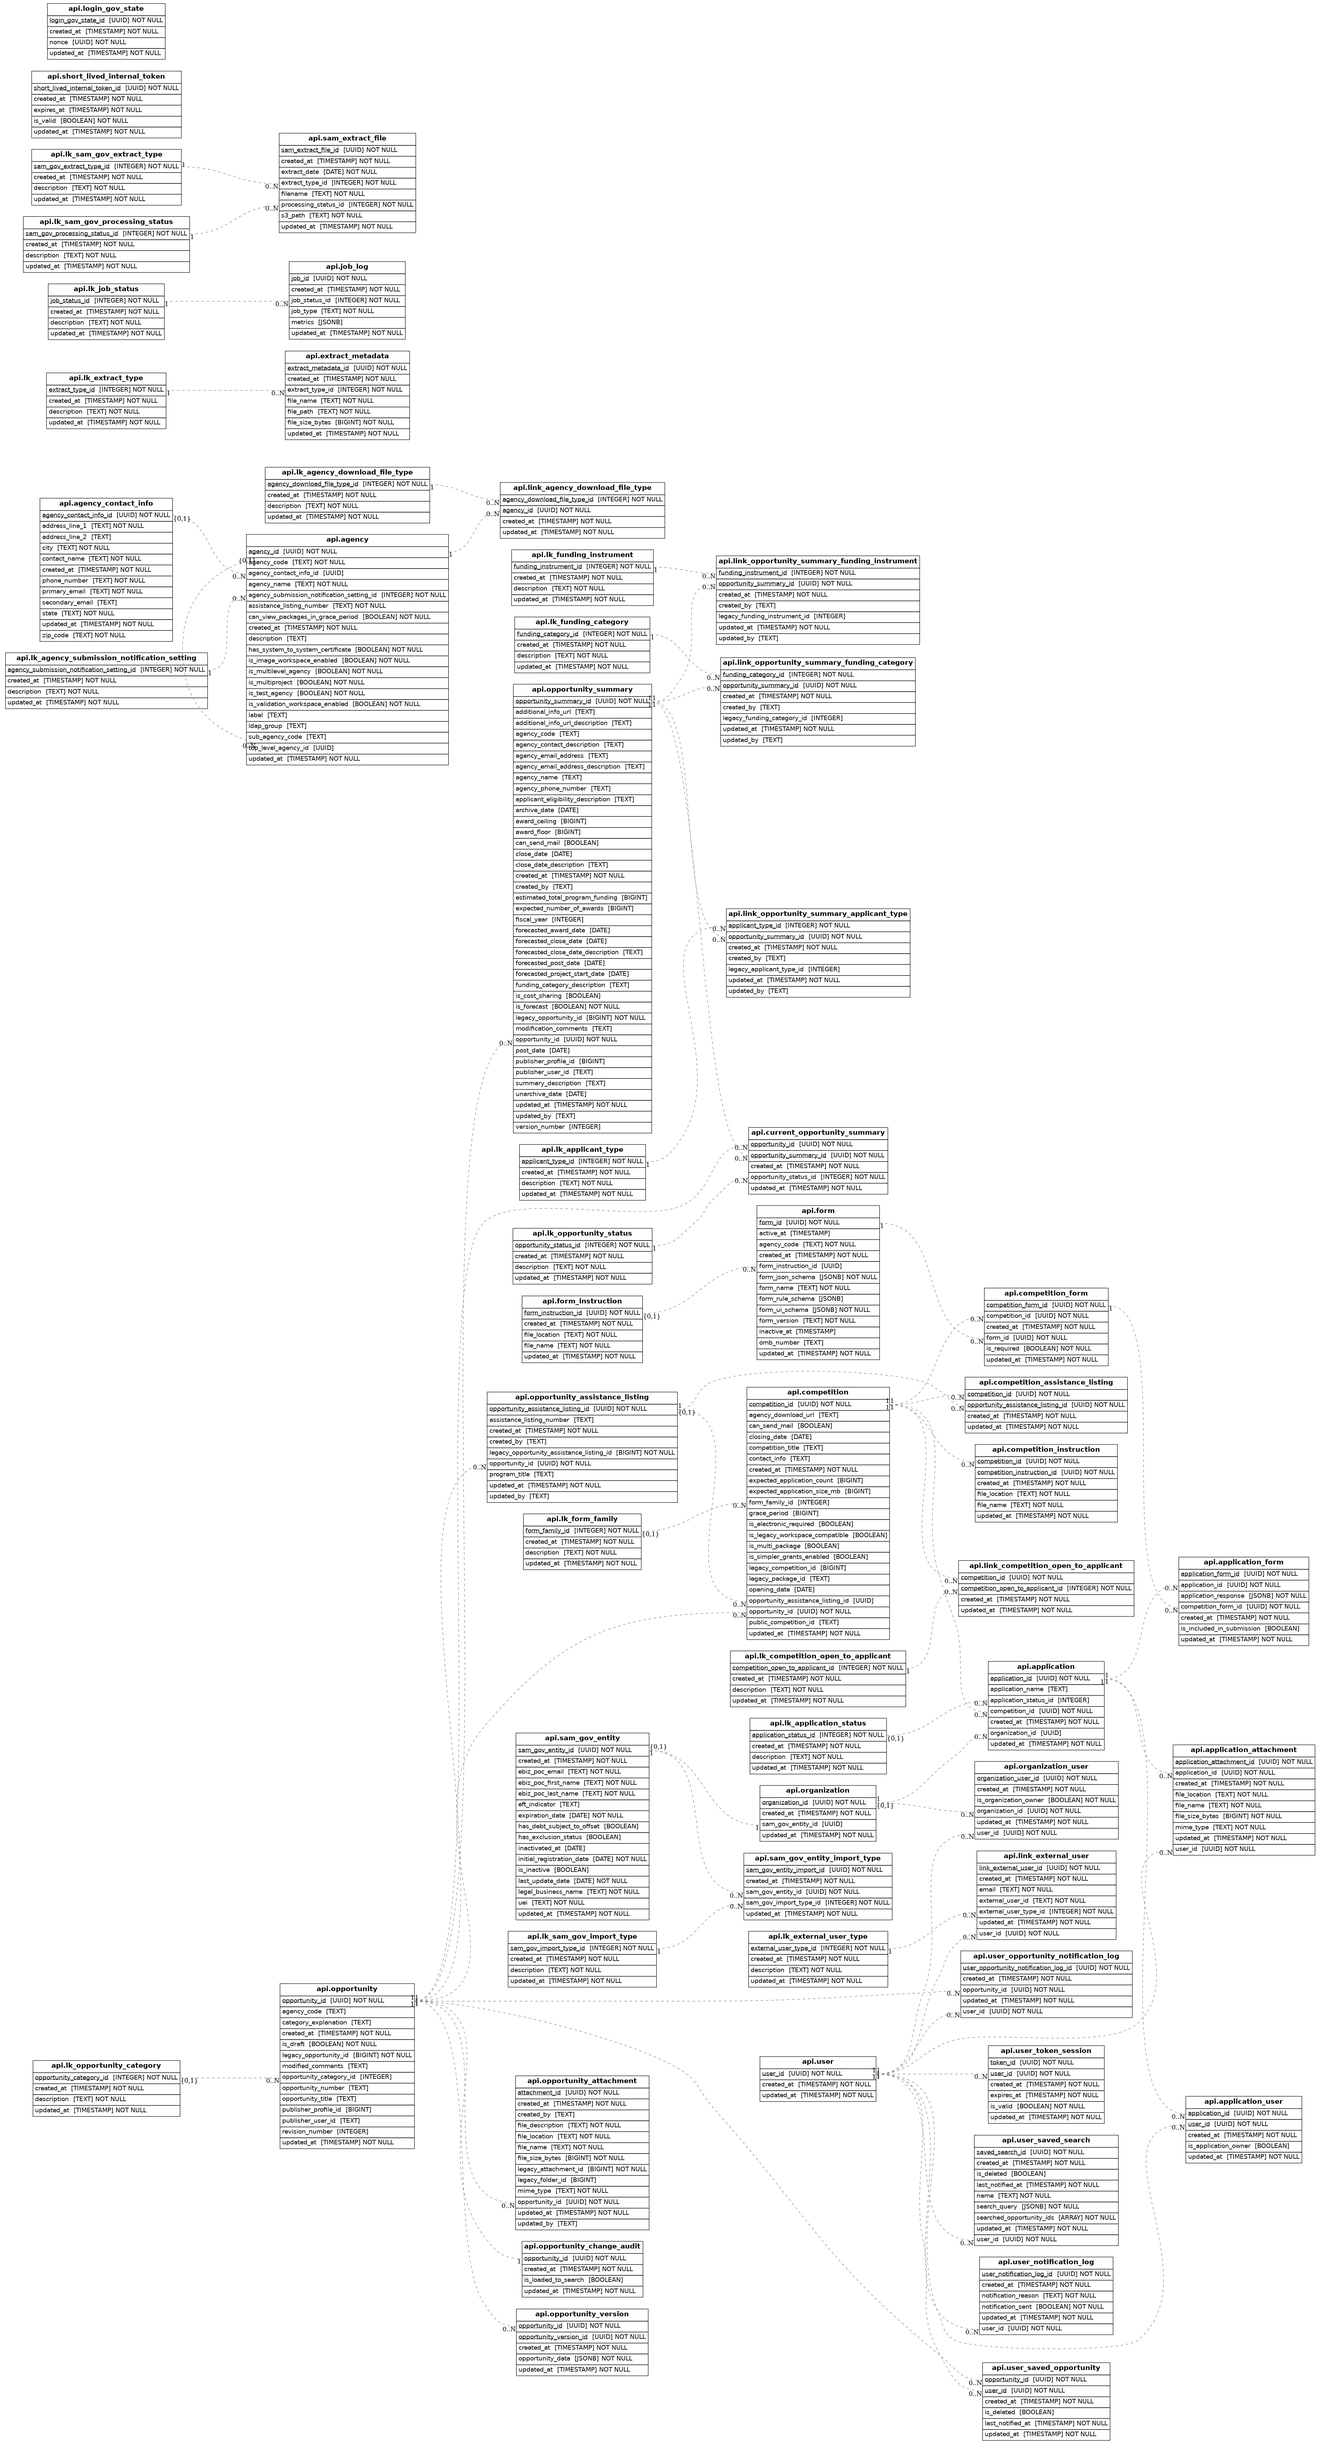
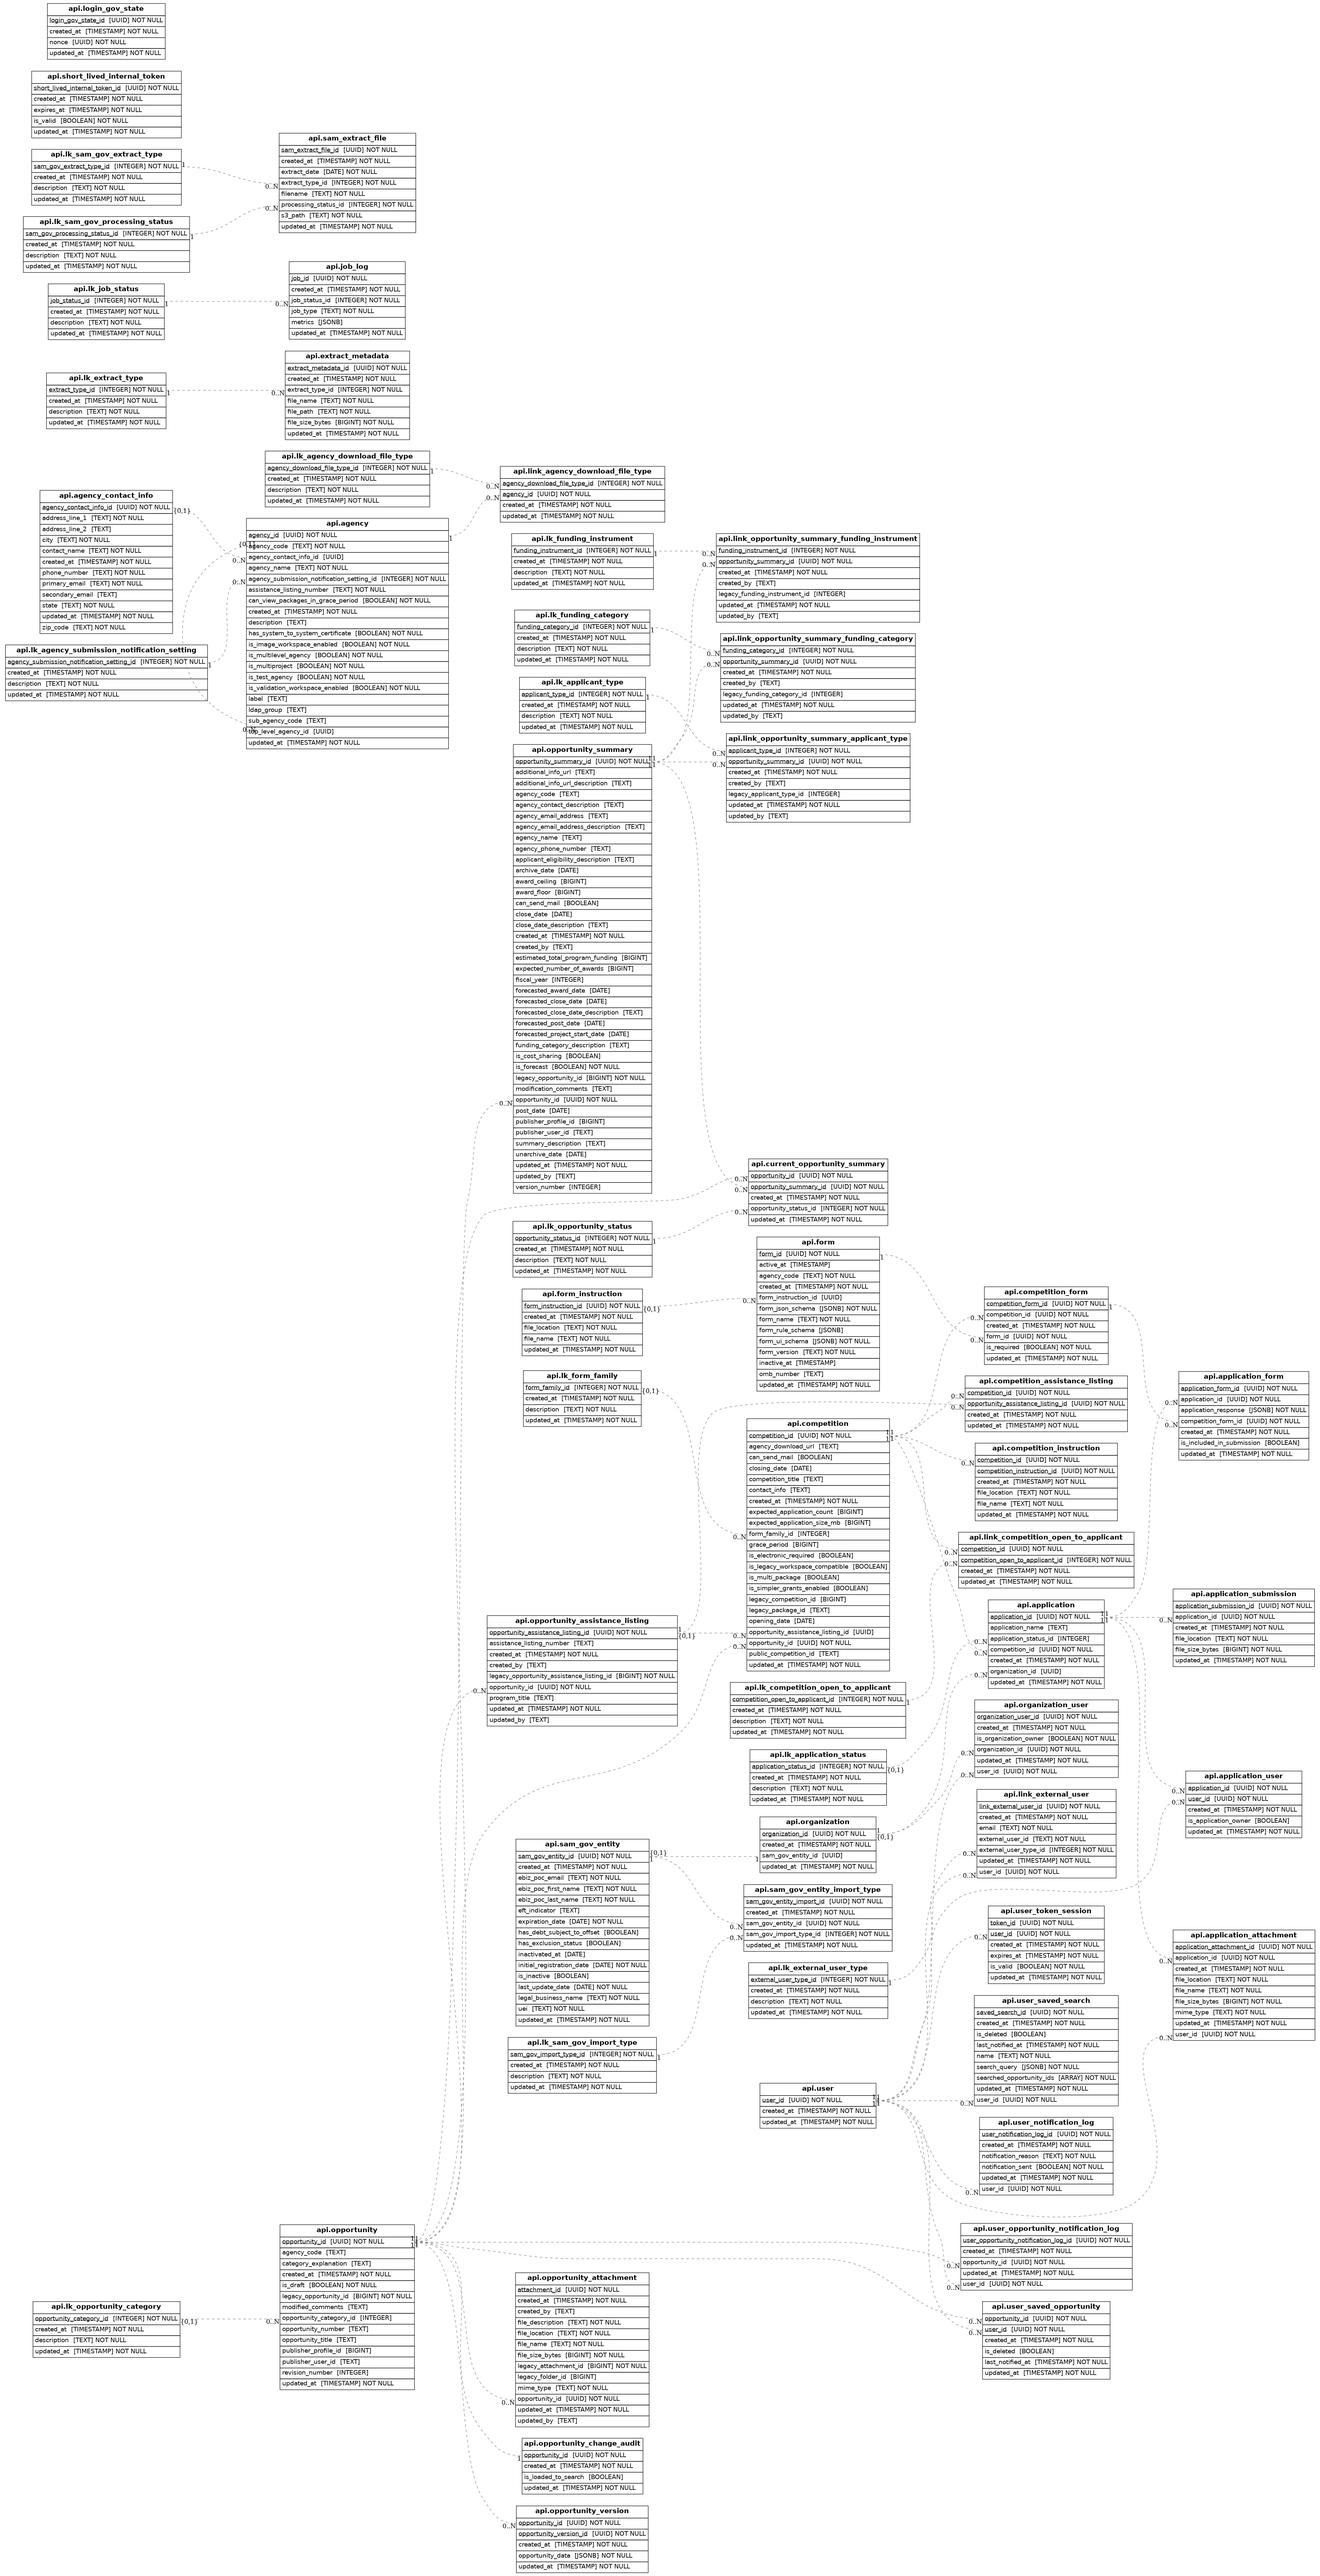
[Issue #5425] Create `application_submission` table (#5513)
## Summary

Fixes #5425

## Changes proposed

Create application submission table
Update factories
Add unit tests

## Context for reviewers

This table will be where we create application submission ZIP files in
the future.

## Validation steps

See migration / unit tests.

---------

diff --git a/api/tests/src/db/models/test_application_submission.py b/api/tests/src/db/models/test_application_submission.py
@@ -1,0 +1,63 @@
+import uuid
+
+import src.util.file_util as file_util
+from tests.src.db.models.factories import ApplicationSubmissionFactory
+
+
+def test_application_submission_factory_creation(enable_factory_create, db_session):
+    """Test that we can create an ApplicationSubmission using the factory"""
+    submission = ApplicationSubmissionFactory.create()
+
+    assert submission.application_submission_id is not None
+    assert isinstance(submission.application_submission_id, uuid.UUID)
+    assert submission.application_id is not None
+    assert isinstance(submission.application_id, uuid.UUID)
+    assert submission.file_location is not None
+    assert submission.file_location.startswith("s3://")
+    assert submission.file_location.endswith(".zip")
+    assert submission.file_size_bytes is not None
+    assert submission.file_size_bytes > 0
+    assert submission.created_at is not None
+    assert submission.updated_at is not None
+
+
+def test_application_submission_with_custom_application(enable_factory_create, db_session):
+    """Test that we can create an ApplicationSubmission with a specific application"""
+    # Create an application first
+    from tests.src.db.models.factories import ApplicationFactory
+
+    application = ApplicationFactory.create()
+
+    # Create a submission for that application
+    submission = ApplicationSubmissionFactory.create(application=application)
+
+    assert submission.application_id == application.application_id
+    assert submission.application == application
+
+
+def test_application_submission_download_path_property(enable_factory_create, db_session):
+    """Test that the download_path property works correctly"""
+    submission = ApplicationSubmissionFactory.create()
+
+    # The download_path should return a string (presigned URL)
+    download_path = submission.download_path
+    assert isinstance(download_path, str)
+    # Note: In tests, this might not be a valid presigned URL, but it should be a string
+
+
+def test_application_submission_relationships(enable_factory_create, db_session):
+    """Test that the relationship to Application works correctly"""
+    submission = ApplicationSubmissionFactory.create()
+
+    # Should be able to access the application through the relationship
+    assert submission.application is not None
+    assert submission.application.application_id == submission.application_id
+
+
+def test_application_submission_file_creation(enable_factory_create, db_session, s3_config):
+    """Test that the factory creates a file on S3"""
+
+    submission = ApplicationSubmissionFactory.create()
+
+    # Check that the file exists
+    assert file_util.file_exists(submission.file_location) is True

diff --git a/api/tests/src/db/models/factories.py b/api/tests/src/db/models/factories.py
@@ -1359,6 +1359,53 @@ class ApplicationAttachmentFactory(BaseFactory):
         return attachment
 
 
+class ApplicationSubmissionFactory(BaseFactory):
+    class Meta:
+        model = competition_models.ApplicationSubmission
+
+    application_submission_id = Generators.UuidObj
+
+    application_id = factory.LazyAttribute(lambda s: s.application.application_id)
+    application = factory.SubFactory(ApplicationFactory)
+
+    file_size_bytes = factory.Faker("random_int", min=1000000, max=50000000)  # 1MB to 50MB
+
+    # Whatever you pass in for file_contents will end up in the file, but
+    # not included anywhere on the model itself
+    file_contents = factory.Faker("sentence")
+    # NOTE: If you want the file to properly get written to s3 for tests/locally
+    # make sure the bucket actually exists
+    file_location = factory.LazyAttribute(
+        lambda s: f"s3://local-mock-public-bucket/applications/{s.application_id}/submissions/{fake.uuid4()}/submission.zip"
+    )
+
+    @classmethod
+    def _build(cls, model_class, *args, **kwargs):
+        kwargs.pop("file_contents", None)  # Don't file for build strategy
+        super()._build(model_class, *args, **kwargs)
+
+    @classmethod
+    def _create(cls, model_class, *args, **kwargs):
+        file_contents = kwargs.pop("file_contents", "Application submission ZIP file contents")
+        submission = super()._create(model_class, *args, **kwargs)
+
+        try:
+            with file_util.open_stream(submission.file_location, "w") as my_file:
+                my_file.write(file_contents)
+        except Exception as e:
+            raise Exception(
+                f"""There was an error writing your submission to {submission.file_location}.
+
+                    Does this location exist? If you are running in unit tests, make sure
+                    `enable_factory_create` is pulled in as a fixture to your test.
+
+                    If you are running locally outside of unit tests, make sure that `make init-localstack` has run.
+                    """
+            ) from e
+
+        return submission
+
+
 ###################
 # Agency Factories
 ###################

diff --git a/api/src/db/models/competition_models.py b/api/src/db/models/competition_models.py
@@ -272,6 +272,13 @@ class Application(ApiSchemaTable, TimestampMixin):
         cascade="all, delete-orphan",
     )
 
+    application_submissions: Mapped[list["ApplicationSubmission"]] = relationship(
+        "ApplicationSubmission",
+        uselist=True,
+        back_populates="application",
+        cascade="all, delete-orphan",
+    )
+
     @property
     def users(self) -> list["User"]:
         """Return the list of User objects associated with this application"""
@@ -335,6 +342,31 @@ class ApplicationAttachment(ApiSchemaTable, TimestampMixin):
     def download_path(self) -> str:
         """Get the presigned s3 url path for downloading the file"""
         # NOTE: These attachments will only ever be in a non-public
+        # bucket so we only can presign their URL, we can't use the CDN path.
+        return pre_sign_file_location(self.file_location)
+
+
+class ApplicationSubmission(ApiSchemaTable, TimestampMixin):
+    __tablename__ = "application_submission"
+
+    application_submission_id: Mapped[uuid.UUID] = mapped_column(
+        UUID, primary_key=True, default=uuid.uuid4
+    )
+
+    application_id: Mapped[uuid.UUID] = mapped_column(
+        UUID, ForeignKey(Application.application_id), nullable=False
+    )
+    application: Mapped[Application] = relationship(
+        Application, back_populates="application_submissions"
+    )
+
+    file_location: Mapped[str]
+    file_size_bytes: Mapped[int] = mapped_column(BigInteger)
+
+    @property
+    def download_path(self) -> str:
+        """Get the presigned s3 url path for downloading the submission file"""
+        # NOTE: These submission files will only ever be in a non-public
         # bucket so we only can presign their URL, we can't use the CDN path.
         return pre_sign_file_location(self.file_location)
 

diff --git a/api/src/db/migrations/versions/2025_06_27_create_application_submission_table.py b/api/src/db/migrations/versions/2025_06_27_create_application_submission_table.py
@@ -1,0 +1,55 @@
+"""Create application submission table
+
+Revision ID: 448ee11789b1
+Revises: 4fe76320503b
+Create Date: 2025-06-27 13:39:50.381509
+
+"""
+
+import sqlalchemy as sa
+from alembic import op
+
+# revision identifiers, used by Alembic.
+revision = "448ee11789b1"
+down_revision = "4fe76320503b"
+branch_labels = None
+depends_on = None
+
+
+def upgrade():
+    # ### commands auto generated by Alembic - please adjust! ###
+    op.create_table(
+        "application_submission",
+        sa.Column("application_submission_id", sa.UUID(), nullable=False),
+        sa.Column("application_id", sa.UUID(), nullable=False),
+        sa.Column("file_location", sa.Text(), nullable=False),
+        sa.Column("file_size_bytes", sa.BigInteger(), nullable=False),
+        sa.Column(
+            "created_at",
+            sa.TIMESTAMP(timezone=True),
+            server_default=sa.text("now()"),
+            nullable=False,
+        ),
+        sa.Column(
+            "updated_at",
+            sa.TIMESTAMP(timezone=True),
+            server_default=sa.text("now()"),
+            nullable=False,
+        ),
+        sa.ForeignKeyConstraint(
+            ["application_id"],
+            ["api.application.application_id"],
+            name=op.f("application_submission_application_id_application_fkey"),
+        ),
+        sa.PrimaryKeyConstraint(
+            "application_submission_id", name=op.f("application_submission_pkey")
+        ),
+        schema="api",
+    )
+    # ### end Alembic commands ###
+
+
+def downgrade():
+    # ### commands auto generated by Alembic - please adjust! ###
+    op.drop_table("application_submission", schema="api")
+    # ### end Alembic commands ###
